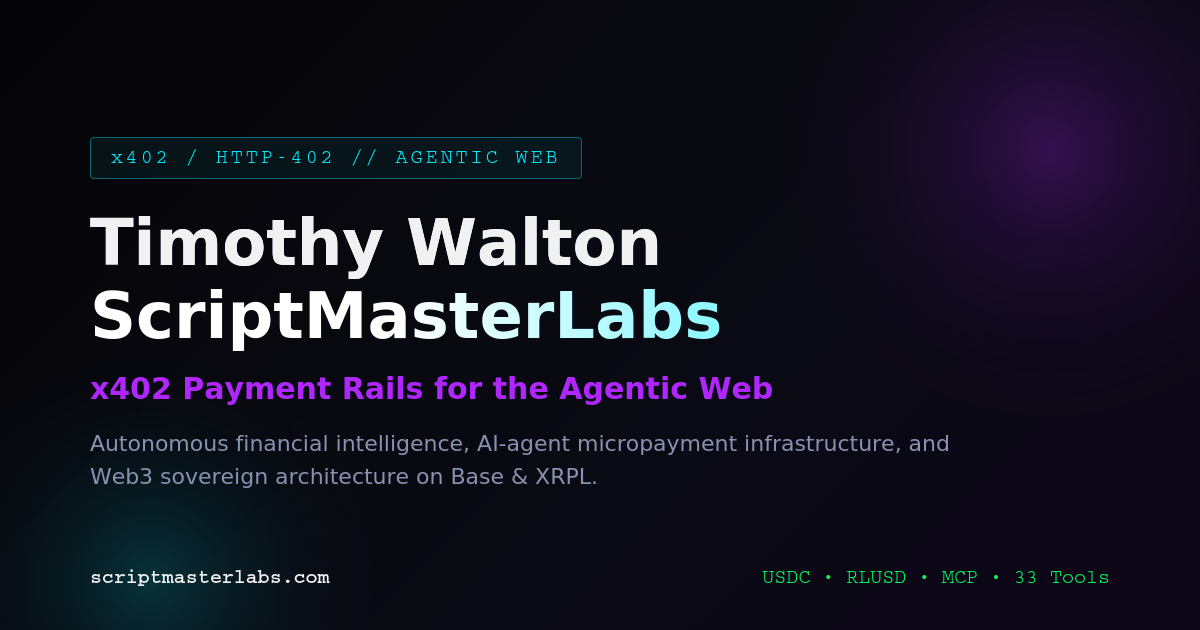
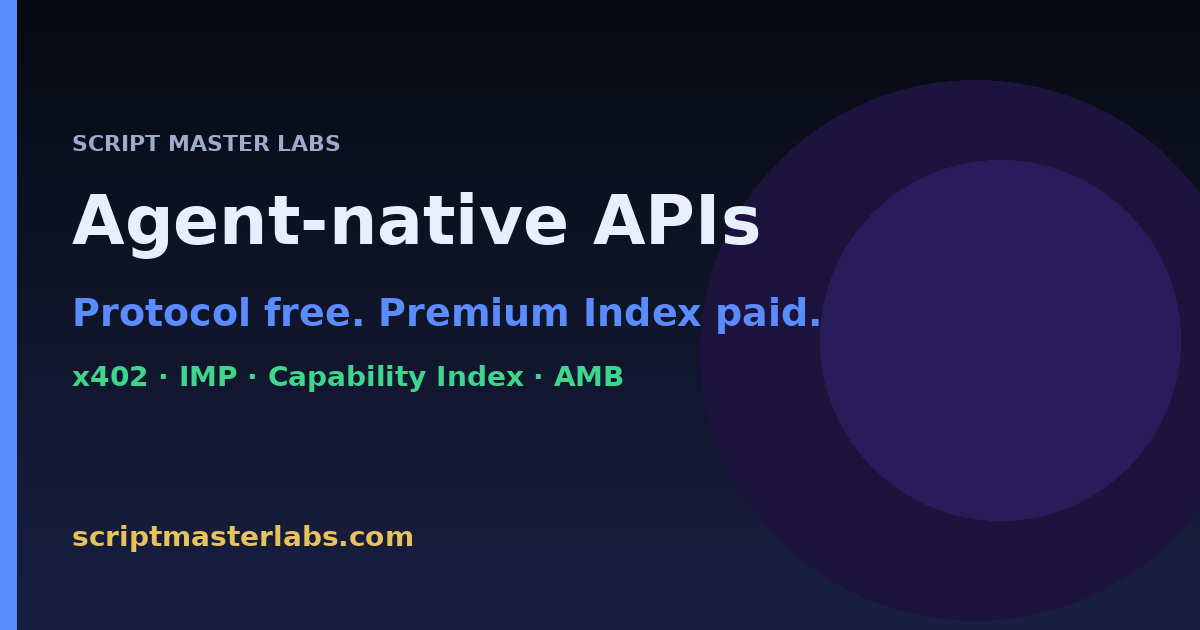
Brand-only link previews: OG/Twitter unfurl without first name
Replace personal og-image with Script Master Labs card; suite pages
use og-imp-suite.png; full og+twitter tags so paste shows title/desc/image
without click. Homepage body/founder identity kept; share chrome is brand.

diff --git a/index.html b/index.html
@@ -14,7 +14,7 @@
     <meta name="virtual-protocol-site-verification" content="a612b1a117397d06bc4b88592002e2d4" />
     <link rel="icon" type="image/x-icon" href="/favicon.ico">
     <link rel="apple-touch-icon" href="/apple-touch-icon.png">
-    <title>ScriptMasterLabs | AI Agents & Financial Intelligence</title>
+    <title>Script Master Labs — Agent-native APIs, x402 &amp; Premium Index</title>
     
     <meta name="keywords" content="$XAH $XRP $RLUSD $USDC $SOL $XLM $ETH $HBAR $ALGO #aiagent #agentic #x402 #mcp #x402protocol #XRPL #Xahau #RLUSD #mcpserver #mcptools #ModelContextProtocol #StreamableHTTP #SSEtransport #AgenticAI #AIagents #autonomousagents #LLMtools #Claude #SqueezeOS #paypercall #agenteconomy #A2A #openai #anthropic #gemini #scriptmasterlabs #SML #mcp_x402 #ExoBrain #GhostLayer x402 payment protocol MCP, pay per call AI agent tools, XRPL payments for AI agents, MCP server with x402 monetization, RLUSD agent payments, Solana USDC AI tool payments, 96 MCP tools pay per use, scriptmasterlabs mcp-x402, agentic commerce x402, model context protocol storefront">
 
@@ -119,7 +119,7 @@
         "@type": "ItemList",
         "name": "ScriptMasterLabs AI E-Books",
         "url": "https://www.scriptmasterlabs.com/books.html",
-        "description": "Trading, neurodivergent survival systems, AI automation, fiction, and modern-English ancient texts by Timothy Walton.",
+        "description": "Trading, neurodivergent survival systems, AI automation, fiction, and modern-English ancient texts by Script Master Labs.",
         "provider": { "@id": "https://www.scriptmasterlabs.com/#org" }
       }
     ]
@@ -706,17 +706,21 @@
 </style>
 <script src="https://analytics.ahrefs.com/analytics.js" data-key="eO57h84tnrmOGAsKKvyoyw" async></script>
 
-  <meta name="description" content="ScriptMasterLabs builds sovereign AI agent systems, x402 payment rails, and institutional market intelligence tools.">
+  <meta name="description" content="Script Master Labs: agent-native APIs, multi-rail x402, free IMP protocol, and hosted Premium Capability Index from $49/mo.">
   <link rel="canonical" href="https://www.scriptmasterlabs.com/">
-  <meta property="og:title" content="ScriptMasterLabs | AI Agents & Financial Intelligence">
-  <meta property="og:description" content="ScriptMasterLabs builds sovereign AI agent systems, x402 payment rails, and institutional market intelligence tools.">
+  <meta property="og:site_name" content="Script Master Labs">
+    <meta name="author" content="Script Master Labs">
+    <meta property="og:title" content="Script Master Labs — Agent-native APIs &amp; Premium Index">
+  <meta property="og:description" content="Protocol free. Premium Index paid. x402 · IMP · Capability Index · AMB. From $49/mo.">
   <meta property="og:url" content="https://www.scriptmasterlabs.com/">
-  <meta property="og:image" content="https://www.scriptmasterlabs.com/assets/neural_os.png">
+  <meta property="og:image" content="https://www.scriptmasterlabs.com/og-image.png">
+    <meta property="og:image:width" content="1200">
+    <meta property="og:image:height" content="630">
   <meta property="og:type" content="website">
   <meta name="twitter:card" content="summary_large_image">
-  <meta name="twitter:title" content="ScriptMasterLabs | AI Agents & Financial Intelligence">
-  <meta name="twitter:description" content="ScriptMasterLabs builds sovereign AI agent systems, x402 payment rails, and institutional market intelligence tools.">
-  <meta name="twitter:image" content="https://www.scriptmasterlabs.com/assets/neural_os.png">
+  <meta name="twitter:title" content="Script Master Labs — Agent-native APIs &amp; Premium Index">
+  <meta name="twitter:description" content="Protocol free. Premium Index paid. x402 · IMP · Capability Index · AMB. From $49/mo.">
+  <meta name="twitter:image" content="https://www.scriptmasterlabs.com/og-image.png">
 </head>
 <body>
 

diff --git a/ai-agent-api-discovery-premium-index.html b/ai-agent-api-discovery-premium-index.html
@@ -11,22 +11,25 @@
 <meta charset="UTF-8">
 <meta name="viewport" content="width=device-width, initial-scale=1.0">
 <link rel="icon" type="image/x-icon" href="/favicon.ico">
-<title>Your API Is Invisible to AI Agents — Premium Capability Index | Script Master Labs</title>
-<meta name="description" content="README ≠ discovery. OpenAPI ≠ ranking. MCP alone ≠ hire. Hosted Premium Capability Index so AI agents can find and hire your API. Starter $49/mo. Protocol free.">
+<title>Premium Capability Index for AI Agents | Script Master Labs</title>
+<meta name="description" content="Hosted ranked discovery so AI agents find and hire APIs. Protocol free. From $49/mo.">
 <meta name="keywords" content="AI agent API discovery, capability index, MCP discovery, x402, Premium Index, agent hire API, IMP protocol, AMB beacons">
 <meta name="robots" content="index,follow,max-image-preview:large,max-snippet:-1">
 <link rel="canonical" href="https://www.scriptmasterlabs.com/ai-agent-api-discovery-premium-index.html">
-<meta property="og:type" content="article">
+<meta property="og:type" content="website">
+<meta property="og:site_name" content="Script Master Labs">
 <meta property="og:url" content="https://www.scriptmasterlabs.com/ai-agent-api-discovery-premium-index.html">
-<meta property="og:title" content="Your API Is Invisible to AI Agents — Premium Capability Index">
-<meta property="og:description" content="Agents don't browse READMEs. They query indexes. Hosted Match API + AMB beacons from $49/mo. IMP protocol free.">
+<meta property="og:title" content="Premium Capability Index for AI Agents | Script Master Labs">
+<meta property="og:description" content="Hosted ranked discovery so AI agents find and hire APIs. Protocol free. From $49/mo.">
 <meta property="og:image" content="https://www.scriptmasterlabs.com/og-image.png">
-<meta property="og:site_name" content="ScriptMasterLabs">
+<meta property="og:image:width" content="1200">
+<meta property="og:image:height" content="630">
 <meta name="twitter:card" content="summary_large_image">
-<meta name="twitter:title" content="Your API Is Invisible to AI Agents — Premium Capability Index">
-<meta name="twitter:description" content="README ≠ discovery. Hosted Premium Index $49/mo. Protocol free.">
+<meta name="twitter:title" content="Premium Capability Index for AI Agents | Script Master Labs">
+<meta name="twitter:description" content="Hosted ranked discovery so AI agents find and hire APIs. Protocol free. From $49/mo.">
 <meta name="twitter:image" content="https://www.scriptmasterlabs.com/og-image.png">
-<meta name="author" content="Timothy Walton, Script Master Labs">
+<meta name="author" content="Script Master Labs">
+
 <link rel="alternate" type="text/plain" href="/llms.txt" title="LLM context">
 <script type="application/ld+json">
 {
@@ -39,7 +42,7 @@
       "description": "README ≠ discovery. Hosted Premium Capability Index so AI agents can find and hire your API. Starter $49/mo. Protocol free.",
       "datePublished": "2026-08-06",
       "dateModified": "2026-08-06",
-      "author": {"@type": "Person", "name": "Timothy Walton"},
+      "author": {"@type": "Person", "name": "Script Master Labs"},
       "publisher": {
         "@type": "Organization",
         "name": "Script Master Labs, LLC",

diff --git a/pricing.html b/pricing.html
@@ -3,18 +3,24 @@
 <head>
   <meta charset="utf-8" />
   <meta name="viewport" content="width=device-width, initial-scale=1" />
-  <title>Pricing — Capability Index &amp; Premium Hosted Discovery | Script Master Labs</title>
-  <meta name="description" content="Protocol free. Premium Index paid. Open source $0, Starter $49/mo, Pro Provider $199/mo, Enterprise/Federal custom. SDVOSB · UEI G24VZA4RLMK3 · CAGE 21U51. Kinston, NC." />
-  <link rel="canonical" href="https://www.scriptmasterlabs.com/pricing.html" />
+  <title>Pricing — Premium Capability Index $49/$199 | Script Master Labs</title>
+  <meta name="description" content="Protocol free. Premium Index paid. Starter $49 · Pro $199 · AMB Amplify $79. Suite bundled — not +$10 modules.">
+  <link rel="canonical" href="https://www.scriptmasterlabs.com/pricing.html">
+<meta property="og:type" content="website">
+<meta property="og:site_name" content="Script Master Labs">
+<meta property="og:url" content="https://www.scriptmasterlabs.com/pricing.html">
+<meta property="og:title" content="Pricing — Premium Capability Index $49/$199 | Script Master Labs">
+<meta property="og:description" content="Protocol free. Premium Index paid. Starter $49 · Pro $199 · AMB Amplify $79. Suite bundled — not +$10 modules.">
+<meta property="og:image" content="https://www.scriptmasterlabs.com/og-image.png">
+<meta property="og:image:width" content="1200">
+<meta property="og:image:height" content="630">
+<meta name="twitter:card" content="summary_large_image">
+<meta name="twitter:title" content="Pricing — Premium Capability Index $49/$199 | Script Master Labs">
+<meta name="twitter:description" content="Protocol free. Premium Index paid. Starter $49 · Pro $199 · AMB Amplify $79. Suite bundled — not +$10 modules.">
+<meta name="twitter:image" content="https://www.scriptmasterlabs.com/og-image.png">
+<meta name="author" content="Script Master Labs">
+
   <meta name="robots" content="index,follow" />
-  <meta property="og:type" content="website" />
-  <meta property="og:url" content="https://www.scriptmasterlabs.com/pricing.html" />
-  <meta property="og:title" content="Pricing — Capability Index | Script Master Labs" />
-  <meta property="og:description" content="Open source $0 · Starter $49/mo · Pro $199/mo · Enterprise/Federal custom. SDVOSB hosted Premium Index for AI agents." />
-  <meta property="og:site_name" content="Script Master Labs" />
-  <meta name="twitter:card" content="summary_large_image" />
-  <meta name="twitter:title" content="Pricing — Capability Index | Script Master Labs" />
-  <meta name="twitter:description" content="Protocol free. Premium Index paid. Starter $49 · Pro $199 · Enterprise custom." />
   <script type="application/ld+json">
   {
     "@context": "https://schema.org",

diff --git a/imp-suite.html b/imp-suite.html
@@ -5,17 +5,23 @@
 <script>window.dataLayer=window.dataLayer||[];function gtag(){dataLayer.push(arguments);}gtag('js',new Date());gtag('config','G-QHTHMG61N6');</script>
 <meta charset="UTF-8">
 <meta name="viewport" content="width=device-width, initial-scale=1.0">
-<title>IMP Suite — Agent Radar, Badge, Receipts, Drops, Rank + AMB Amplify | Script Master Labs</title>
-<meta name="description" content="Monetized stack on free IMP: Agent-Ready Badge, Agent Radar, Match Receipts, Intention Drops, AgentRank Live. Bundled in Premium Index $49/$199. Separate AMB Amplify SKU. Protocol free.">
+<title>IMP Suite — Agent Radar, Badge, Receipts & AMB | Script Master Labs</title>
+<meta name="description" content="Monetized stack on free IMP. Suite bundled in Premium Index $49/$199. AMB Amplify $79 separate. Not +$10 add-ons.">
 <meta name="robots" content="index,follow,max-image-preview:large">
 <link rel="canonical" href="https://www.scriptmasterlabs.com/imp-suite.html">
 <meta property="og:type" content="website">
+<meta property="og:site_name" content="Script Master Labs">
 <meta property="og:url" content="https://www.scriptmasterlabs.com/imp-suite.html">
-<meta property="og:title" content="IMP Suite — Agent Radar, Badge, Receipts, Drops, Rank + AMB Amplify | Script Master Labs">
-<meta property="og:description" content="Monetized stack on free IMP: Agent-Ready Badge, Agent Radar, Match Receipts, Intention Drops, AgentRank Live. Bundled in Premium Index $49/$199. Separate AMB Amplify SKU. Protocol free.">
-<meta property="og:image" content="https://www.scriptmasterlabs.com/og-image.png">
+<meta property="og:title" content="IMP Suite — Agent Radar, Badge, Receipts & AMB | Script Master Labs">
+<meta property="og:description" content="Monetized stack on free IMP. Suite bundled in Premium Index $49/$199. AMB Amplify $79 separate. Not +$10 add-ons.">
+<meta property="og:image" content="https://www.scriptmasterlabs.com/og-imp-suite.png">
+<meta property="og:image:width" content="1200">
+<meta property="og:image:height" content="630">
 <meta name="twitter:card" content="summary_large_image">
-<meta name="author" content="Timothy Walton, Script Master Labs">
+<meta name="twitter:title" content="IMP Suite — Agent Radar, Badge, Receipts & AMB | Script Master Labs">
+<meta name="twitter:description" content="Monetized stack on free IMP. Suite bundled in Premium Index $49/$199. AMB Amplify $79 separate. Not +$10 add-ons.">
+<meta name="twitter:image" content="https://www.scriptmasterlabs.com/og-imp-suite.png">
+<meta name="author" content="Script Master Labs">
 
 <style>
 :root { color-scheme: dark; --bg:#070a12; --card:#10182a; --line:#243049; --txt:#e8eefc; --mut:#9aabcc; --acc:#5b8cff; --ok:#3dd68c; --gold:#e6c35c; --warn:#ffcc66; --mag:#ff2d95; }

diff --git a/imp-suite-guide.html b/imp-suite-guide.html
@@ -5,17 +5,24 @@
 <script>window.dataLayer=window.dataLayer||[];function gtag(){dataLayer.push(arguments);}gtag('js',new Date());gtag('config','G-QHTHMG61N6');</script>
 <meta charset="UTF-8">
 <meta name="viewport" content="width=device-width, initial-scale=1.0">
-<title>IMP Suite Sales Guide — What Everything Is, Does &amp; Costs | Script Master Labs</title>
-<meta name="description" content="Ad-ready plain-English guide to IMP, Premium Index, Agent-Ready Badge, Agent Radar, Match Receipts, Intention Drops, AgentRank Live, and AMB Amplify. Name, function, why buy, why different.">
+<title>IMP Suite Sales Guide — Script Master Labs</title>
+<meta name="description" content="What each product is, does, costs, and why anyone pays. Badge · Radar · Receipts · Drops · Rank · AMB Amplify. Protocol free. Premium Index paid.">
 <meta name="robots" content="index,follow,max-image-preview:large">
 <link rel="canonical" href="https://www.scriptmasterlabs.com/imp-suite-guide.html">
-<meta property="og:type" content="article">
+<meta property="og:type" content="website">
+<meta property="og:site_name" content="Script Master Labs">
 <meta property="og:url" content="https://www.scriptmasterlabs.com/imp-suite-guide.html">
 <meta property="og:title" content="IMP Suite Sales Guide — Script Master Labs">
-<meta property="og:description" content="One page: what each product is, does, costs, and why anyone would pay.">
-<meta property="og:image" content="https://www.scriptmasterlabs.com/og-image.png">
+<meta property="og:description" content="What each product is, does, costs, and why anyone pays. Badge · Radar · Receipts · Drops · Rank · AMB Amplify. Protocol free. Premium Index paid.">
+<meta property="og:image" content="https://www.scriptmasterlabs.com/og-imp-suite.png">
+<meta property="og:image:width" content="1200">
+<meta property="og:image:height" content="630">
 <meta name="twitter:card" content="summary_large_image">
-<meta name="author" content="Timothy Walton, Script Master Labs">
+<meta name="twitter:title" content="IMP Suite Sales Guide — Script Master Labs">
+<meta name="twitter:description" content="What each product is, does, costs, and why anyone pays. Badge · Radar · Receipts · Drops · Rank · AMB Amplify. Protocol free. Premium Index paid.">
+<meta name="twitter:image" content="https://www.scriptmasterlabs.com/og-imp-suite.png">
+<meta name="author" content="Script Master Labs">
+
 <style>
 :root { color-scheme: dark; --bg:#070a12; --card:#10182a; --line:#243049; --txt:#e8eefc; --mut:#9aabcc; --acc:#5b8cff; --ok:#3dd68c; --gold:#e6c35c; --warn:#ffcc66; --mag:#ff2d95; }
 * { box-sizing: border-box; }

diff --git a/amb-amplify.html b/amb-amplify.html
@@ -5,17 +5,23 @@
 <script>window.dataLayer=window.dataLayer||[];function gtag(){dataLayer.push(arguments);}gtag('js',new Date());gtag('config','G-QHTHMG61N6');</script>
 <meta charset="UTF-8">
 <meta name="viewport" content="width=device-width, initial-scale=1.0">
-<title>AMB Amplify — Agent Marketplace Beacon Distribution | Script Master Labs</title>
-<meta name="description" content="Separate monetized AMB product: beacon fan-out, multi-host propagation, traffic analytics. $79/mo or stronger on Pro Index. Not a $10 add-on.">
+<title>AMB Amplify $79 — Beacon Distribution | Script Master Labs</title>
+<meta name="description" content="Multi-host AMB fan-out, health checks, traffic analytics. Separate SKU from Premium Index.">
 <meta name="robots" content="index,follow,max-image-preview:large">
 <link rel="canonical" href="https://www.scriptmasterlabs.com/amb-amplify.html">
 <meta property="og:type" content="website">
+<meta property="og:site_name" content="Script Master Labs">
 <meta property="og:url" content="https://www.scriptmasterlabs.com/amb-amplify.html">
-<meta property="og:title" content="AMB Amplify — Agent Marketplace Beacon Distribution | Script Master Labs">
-<meta property="og:description" content="Separate monetized AMB product: beacon fan-out, multi-host propagation, traffic analytics. $79/mo or stronger on Pro Index. Not a $10 add-on.">
-<meta property="og:image" content="https://www.scriptmasterlabs.com/og-image.png">
+<meta property="og:title" content="AMB Amplify $79 — Beacon Distribution | Script Master Labs">
+<meta property="og:description" content="Multi-host AMB fan-out, health checks, traffic analytics. Separate SKU from Premium Index.">
+<meta property="og:image" content="https://www.scriptmasterlabs.com/og-imp-suite.png">
+<meta property="og:image:width" content="1200">
+<meta property="og:image:height" content="630">
 <meta name="twitter:card" content="summary_large_image">
-<meta name="author" content="Timothy Walton, Script Master Labs">
+<meta name="twitter:title" content="AMB Amplify $79 — Beacon Distribution | Script Master Labs">
+<meta name="twitter:description" content="Multi-host AMB fan-out, health checks, traffic analytics. Separate SKU from Premium Index.">
+<meta name="twitter:image" content="https://www.scriptmasterlabs.com/og-imp-suite.png">
+<meta name="author" content="Script Master Labs">
 
 <style>
 :root { color-scheme: dark; --bg:#070a12; --card:#10182a; --line:#243049; --txt:#e8eefc; --mut:#9aabcc; --acc:#5b8cff; --ok:#3dd68c; --gold:#e6c35c; --warn:#ffcc66; --mag:#ff2d95; }

diff --git a/agentrank-live.html b/agentrank-live.html
@@ -5,17 +5,23 @@
 <script>window.dataLayer=window.dataLayer||[];function gtag(){dataLayer.push(arguments);}gtag('js',new Date());gtag('config','G-QHTHMG61N6');</script>
 <meta charset="UTF-8">
 <meta name="viewport" content="width=device-width, initial-scale=1.0">
-<title>AgentRank Live — Public Capability Scoreboard | Script Master Labs</title>
-<meta name="description" content="Open AgentRank methodology + public board. Paid tracking and fix path into Premium Index $49/$199.">
+<title>AgentRank Live — Public Scoreboard | Script Master Labs</title>
+<meta name="description" content="Public agent-readiness scoreboard. Free board. Track + fix path in Premium Index.">
 <meta name="robots" content="index,follow,max-image-preview:large">
 <link rel="canonical" href="https://www.scriptmasterlabs.com/agentrank-live.html">
 <meta property="og:type" content="website">
+<meta property="og:site_name" content="Script Master Labs">
 <meta property="og:url" content="https://www.scriptmasterlabs.com/agentrank-live.html">
-<meta property="og:title" content="AgentRank Live — Public Capability Scoreboard | Script Master Labs">
-<meta property="og:description" content="Open AgentRank methodology + public board. Paid tracking and fix path into Premium Index $49/$199.">
-<meta property="og:image" content="https://www.scriptmasterlabs.com/og-image.png">
+<meta property="og:title" content="AgentRank Live — Public Scoreboard | Script Master Labs">
+<meta property="og:description" content="Public agent-readiness scoreboard. Free board. Track + fix path in Premium Index.">
+<meta property="og:image" content="https://www.scriptmasterlabs.com/og-imp-suite.png">
+<meta property="og:image:width" content="1200">
+<meta property="og:image:height" content="630">
 <meta name="twitter:card" content="summary_large_image">
-<meta name="author" content="Timothy Walton, Script Master Labs">
+<meta name="twitter:title" content="AgentRank Live — Public Scoreboard | Script Master Labs">
+<meta name="twitter:description" content="Public agent-readiness scoreboard. Free board. Track + fix path in Premium Index.">
+<meta name="twitter:image" content="https://www.scriptmasterlabs.com/og-imp-suite.png">
+<meta name="author" content="Script Master Labs">
 
 <style>
 :root { color-scheme: dark; --bg:#070a12; --card:#10182a; --line:#243049; --txt:#e8eefc; --mut:#9aabcc; --acc:#5b8cff; --ok:#3dd68c; --gold:#e6c35c; --warn:#ffcc66; --mag:#ff2d95; }

diff --git a/agent-radar.html b/agent-radar.html
@@ -5,17 +5,23 @@
 <script>window.dataLayer=window.dataLayer||[];function gtag(){dataLayer.push(arguments);}gtag('js',new Date());gtag('config','G-QHTHMG61N6');</script>
 <meta charset="UTF-8">
 <meta name="viewport" content="width=device-width, initial-scale=1.0">
-<title>Agent Radar — Live Intent Heat for APIs | Script Master Labs</title>
-<meta name="description" content="See what agents are hunting. Free public heat. Named intel + alerts inside Premium Index $49/$199.">
+<title>Agent Radar — Live Intent Heat | Script Master Labs</title>
+<meta name="description" content="See what agents are hunting. Free public heat. Named intel inside Premium Index $49/$199.">
 <meta name="robots" content="index,follow,max-image-preview:large">
 <link rel="canonical" href="https://www.scriptmasterlabs.com/agent-radar.html">
 <meta property="og:type" content="website">
+<meta property="og:site_name" content="Script Master Labs">
 <meta property="og:url" content="https://www.scriptmasterlabs.com/agent-radar.html">
-<meta property="og:title" content="Agent Radar — Live Intent Heat for APIs | Script Master Labs">
-<meta property="og:description" content="See what agents are hunting. Free public heat. Named intel + alerts inside Premium Index $49/$199.">
-<meta property="og:image" content="https://www.scriptmasterlabs.com/og-image.png">
+<meta property="og:title" content="Agent Radar — Live Intent Heat | Script Master Labs">
+<meta property="og:description" content="See what agents are hunting. Free public heat. Named intel inside Premium Index $49/$199.">
+<meta property="og:image" content="https://www.scriptmasterlabs.com/og-imp-suite.png">
+<meta property="og:image:width" content="1200">
+<meta property="og:image:height" content="630">
 <meta name="twitter:card" content="summary_large_image">
-<meta name="author" content="Timothy Walton, Script Master Labs">
+<meta name="twitter:title" content="Agent Radar — Live Intent Heat | Script Master Labs">
+<meta name="twitter:description" content="See what agents are hunting. Free public heat. Named intel inside Premium Index $49/$199.">
+<meta name="twitter:image" content="https://www.scriptmasterlabs.com/og-imp-suite.png">
+<meta name="author" content="Script Master Labs">
 
 <style>
 :root { color-scheme: dark; --bg:#070a12; --card:#10182a; --line:#243049; --txt:#e8eefc; --mut:#9aabcc; --acc:#5b8cff; --ok:#3dd68c; --gold:#e6c35c; --warn:#ffcc66; --mag:#ff2d95; }

diff --git a/partners.html b/partners.html
@@ -11,17 +11,24 @@
 <meta charset="UTF-8">
 <meta name="viewport" content="width=device-width, initial-scale=1.0">
 <link rel="icon" type="image/x-icon" href="/favicon.ico">
-<title>Partners &amp; Ecosystem Reciprocals (2026) | Script Master Labs</title>
-<meta name="description" content="Fresh 2026 ecosystem partners and reciprocal links for agent-native APIs, x402, MCP, and AI discovery. Script Master Labs Premium Capability Index $49/mo. Request a link swap.">
+<title>Partners — Script Master Labs</title>
+<meta name="description" content="Reciprocal partners and agent-commerce ecosystem links. Premium Index from $49/mo.">
 <meta name="robots" content="index,follow,max-image-preview:large">
 <link rel="canonical" href="https://www.scriptmasterlabs.com/partners.html">
 <meta property="og:type" content="website">
+<meta property="og:site_name" content="Script Master Labs">
 <meta property="og:url" content="https://www.scriptmasterlabs.com/partners.html">
-<meta property="og:title" content="Partners &amp; Ecosystem Reciprocals — Script Master Labs">
-<meta property="og:description" content="Live 2026 partner directory for x402, MCP, agent APIs. Link swap welcome.">
+<meta property="og:title" content="Partners — Script Master Labs">
+<meta property="og:description" content="Reciprocal partners and agent-commerce ecosystem links. Premium Index from $49/mo.">
 <meta property="og:image" content="https://www.scriptmasterlabs.com/og-image.png">
+<meta property="og:image:width" content="1200">
+<meta property="og:image:height" content="630">
 <meta name="twitter:card" content="summary_large_image">
-<meta name="author" content="Timothy Walton, Script Master Labs">
+<meta name="twitter:title" content="Partners — Script Master Labs">
+<meta name="twitter:description" content="Reciprocal partners and agent-commerce ecosystem links. Premium Index from $49/mo.">
+<meta name="twitter:image" content="https://www.scriptmasterlabs.com/og-image.png">
+<meta name="author" content="Script Master Labs">
+
 <style>
   :root { color-scheme: dark; --bg:#070a12; --card:#10182a; --line:#243049; --txt:#e8eefc; --mut:#9aabcc; --acc:#5b8cff; --ok:#3dd68c; --warn:#ffcc66; }
   * { box-sizing: border-box; }

diff --git a/agent-ready-badge.html b/agent-ready-badge.html
@@ -6,16 +6,22 @@
 <meta charset="UTF-8">
 <meta name="viewport" content="width=device-width, initial-scale=1.0">
 <title>Agent-Ready Badge — IMP Verified Seal | Script Master Labs</title>
-<meta name="description" content="Free IMP self-attest badge + paid hosted verification. Bundled in Premium Index $49. Make your API agent-visible.">
+<meta name="description" content="Free IMP self-attest badge + paid hosted verification inside Premium Index $49.">
 <meta name="robots" content="index,follow,max-image-preview:large">
 <link rel="canonical" href="https://www.scriptmasterlabs.com/agent-ready-badge.html">
 <meta property="og:type" content="website">
+<meta property="og:site_name" content="Script Master Labs">
 <meta property="og:url" content="https://www.scriptmasterlabs.com/agent-ready-badge.html">
 <meta property="og:title" content="Agent-Ready Badge — IMP Verified Seal | Script Master Labs">
-<meta property="og:description" content="Free IMP self-attest badge + paid hosted verification. Bundled in Premium Index $49. Make your API agent-visible.">
-<meta property="og:image" content="https://www.scriptmasterlabs.com/og-image.png">
+<meta property="og:description" content="Free IMP self-attest badge + paid hosted verification inside Premium Index $49.">
+<meta property="og:image" content="https://www.scriptmasterlabs.com/og-imp-suite.png">
+<meta property="og:image:width" content="1200">
+<meta property="og:image:height" content="630">
 <meta name="twitter:card" content="summary_large_image">
-<meta name="author" content="Timothy Walton, Script Master Labs">
+<meta name="twitter:title" content="Agent-Ready Badge — IMP Verified Seal | Script Master Labs">
+<meta name="twitter:description" content="Free IMP self-attest badge + paid hosted verification inside Premium Index $49.">
+<meta name="twitter:image" content="https://www.scriptmasterlabs.com/og-imp-suite.png">
+<meta name="author" content="Script Master Labs">
 
 <style>
 :root { color-scheme: dark; --bg:#070a12; --card:#10182a; --line:#243049; --txt:#e8eefc; --mut:#9aabcc; --acc:#5b8cff; --ok:#3dd68c; --gold:#e6c35c; --warn:#ffcc66; --mag:#ff2d95; }

diff --git a/match-receipts.html b/match-receipts.html
@@ -6,16 +6,22 @@
 <meta charset="UTF-8">
 <meta name="viewport" content="width=device-width, initial-scale=1.0">
 <title>Match Receipts — Proof Agents Paid | Script Master Labs</title>
-<meta name="description" content="Open receipt schema + free verifier. Hosted issue/index/disputes inside Premium Index. Monetized proof layer on IMP.">
+<meta name="description" content="Open receipt schema + free verify. Hosted issue/explorer inside Premium Index.">
 <meta name="robots" content="index,follow,max-image-preview:large">
 <link rel="canonical" href="https://www.scriptmasterlabs.com/match-receipts.html">
 <meta property="og:type" content="website">
+<meta property="og:site_name" content="Script Master Labs">
 <meta property="og:url" content="https://www.scriptmasterlabs.com/match-receipts.html">
 <meta property="og:title" content="Match Receipts — Proof Agents Paid | Script Master Labs">
-<meta property="og:description" content="Open receipt schema + free verifier. Hosted issue/index/disputes inside Premium Index. Monetized proof layer on IMP.">
-<meta property="og:image" content="https://www.scriptmasterlabs.com/og-image.png">
+<meta property="og:description" content="Open receipt schema + free verify. Hosted issue/explorer inside Premium Index.">
+<meta property="og:image" content="https://www.scriptmasterlabs.com/og-imp-suite.png">
+<meta property="og:image:width" content="1200">
+<meta property="og:image:height" content="630">
 <meta name="twitter:card" content="summary_large_image">
-<meta name="author" content="Timothy Walton, Script Master Labs">
+<meta name="twitter:title" content="Match Receipts — Proof Agents Paid | Script Master Labs">
+<meta name="twitter:description" content="Open receipt schema + free verify. Hosted issue/explorer inside Premium Index.">
+<meta name="twitter:image" content="https://www.scriptmasterlabs.com/og-imp-suite.png">
+<meta name="author" content="Script Master Labs">
 
 <style>
 :root { color-scheme: dark; --bg:#070a12; --card:#10182a; --line:#243049; --txt:#e8eefc; --mut:#9aabcc; --acc:#5b8cff; --ok:#3dd68c; --gold:#e6c35c; --warn:#ffcc66; --mag:#ff2d95; }

diff --git a/intention-drops.html b/intention-drops.html
@@ -6,16 +6,22 @@
 <meta charset="UTF-8">
 <meta name="viewport" content="width=device-width, initial-scale=1.0">
 <title>Intention Drops — Agent Bounty Board | Script Master Labs</title>
-<meta name="description" content="Public IMP intention board. Free posts rate-limited. Boosts and SLA routing monetized via Premium Index.">
+<meta name="description" content="Public IMP intention board. Free posts. Boosts via Premium Index $49+.">
 <meta name="robots" content="index,follow,max-image-preview:large">
 <link rel="canonical" href="https://www.scriptmasterlabs.com/intention-drops.html">
 <meta property="og:type" content="website">
+<meta property="og:site_name" content="Script Master Labs">
 <meta property="og:url" content="https://www.scriptmasterlabs.com/intention-drops.html">
 <meta property="og:title" content="Intention Drops — Agent Bounty Board | Script Master Labs">
-<meta property="og:description" content="Public IMP intention board. Free posts rate-limited. Boosts and SLA routing monetized via Premium Index.">
-<meta property="og:image" content="https://www.scriptmasterlabs.com/og-image.png">
+<meta property="og:description" content="Public IMP intention board. Free posts. Boosts via Premium Index $49+.">
+<meta property="og:image" content="https://www.scriptmasterlabs.com/og-imp-suite.png">
+<meta property="og:image:width" content="1200">
+<meta property="og:image:height" content="630">
 <meta name="twitter:card" content="summary_large_image">
-<meta name="author" content="Timothy Walton, Script Master Labs">
+<meta name="twitter:title" content="Intention Drops — Agent Bounty Board | Script Master Labs">
+<meta name="twitter:description" content="Public IMP intention board. Free posts. Boosts via Premium Index $49+.">
+<meta name="twitter:image" content="https://www.scriptmasterlabs.com/og-imp-suite.png">
+<meta name="author" content="Script Master Labs">
 
 <style>
 :root { color-scheme: dark; --bg:#070a12; --card:#10182a; --line:#243049; --txt:#e8eefc; --mut:#9aabcc; --acc:#5b8cff; --ok:#3dd68c; --gold:#e6c35c; --warn:#ffcc66; --mag:#ff2d95; }
